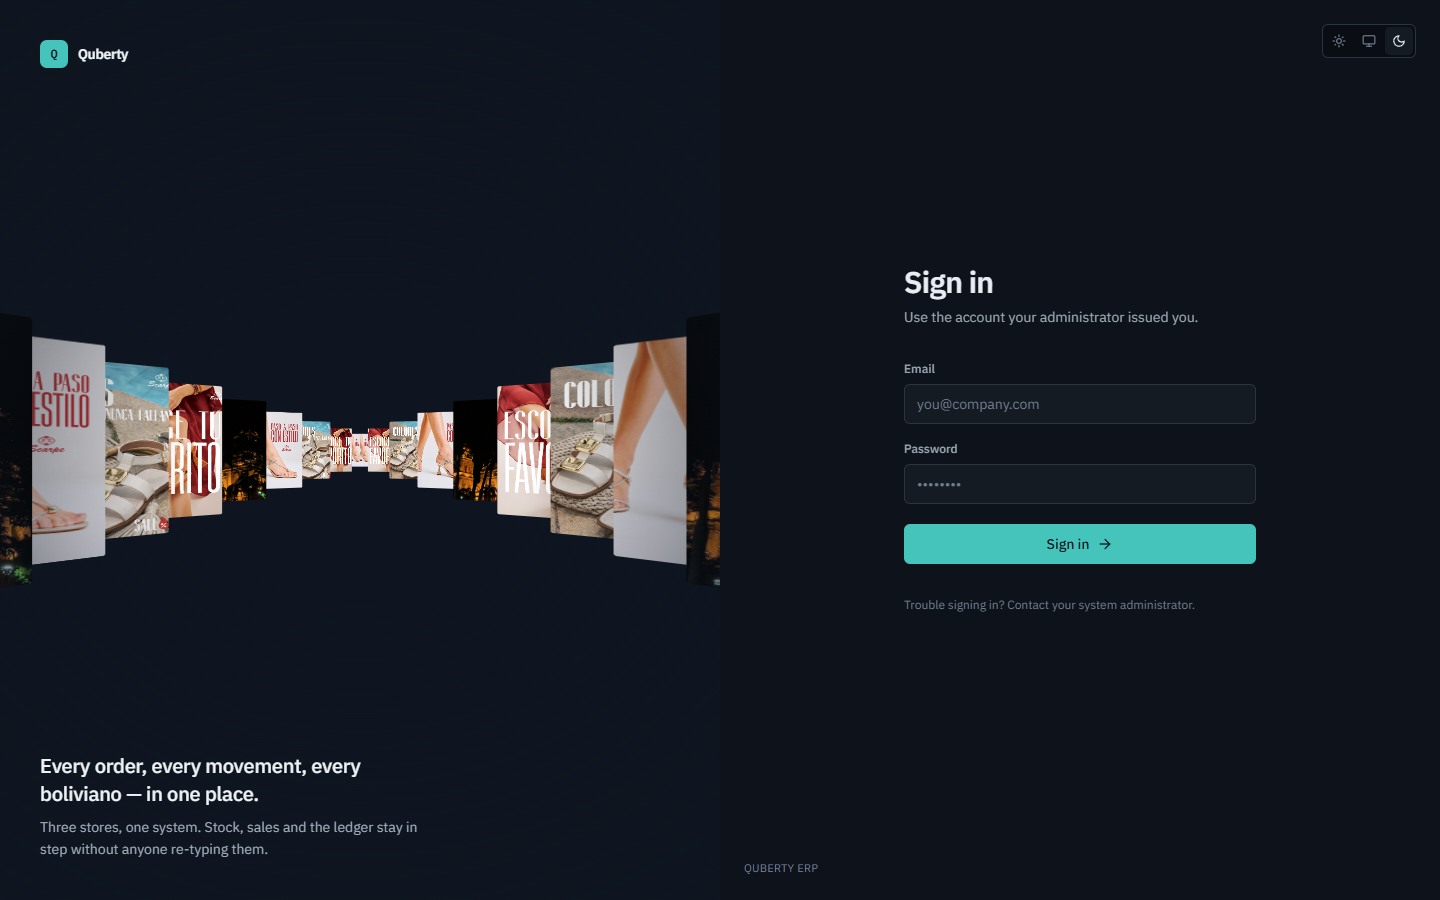
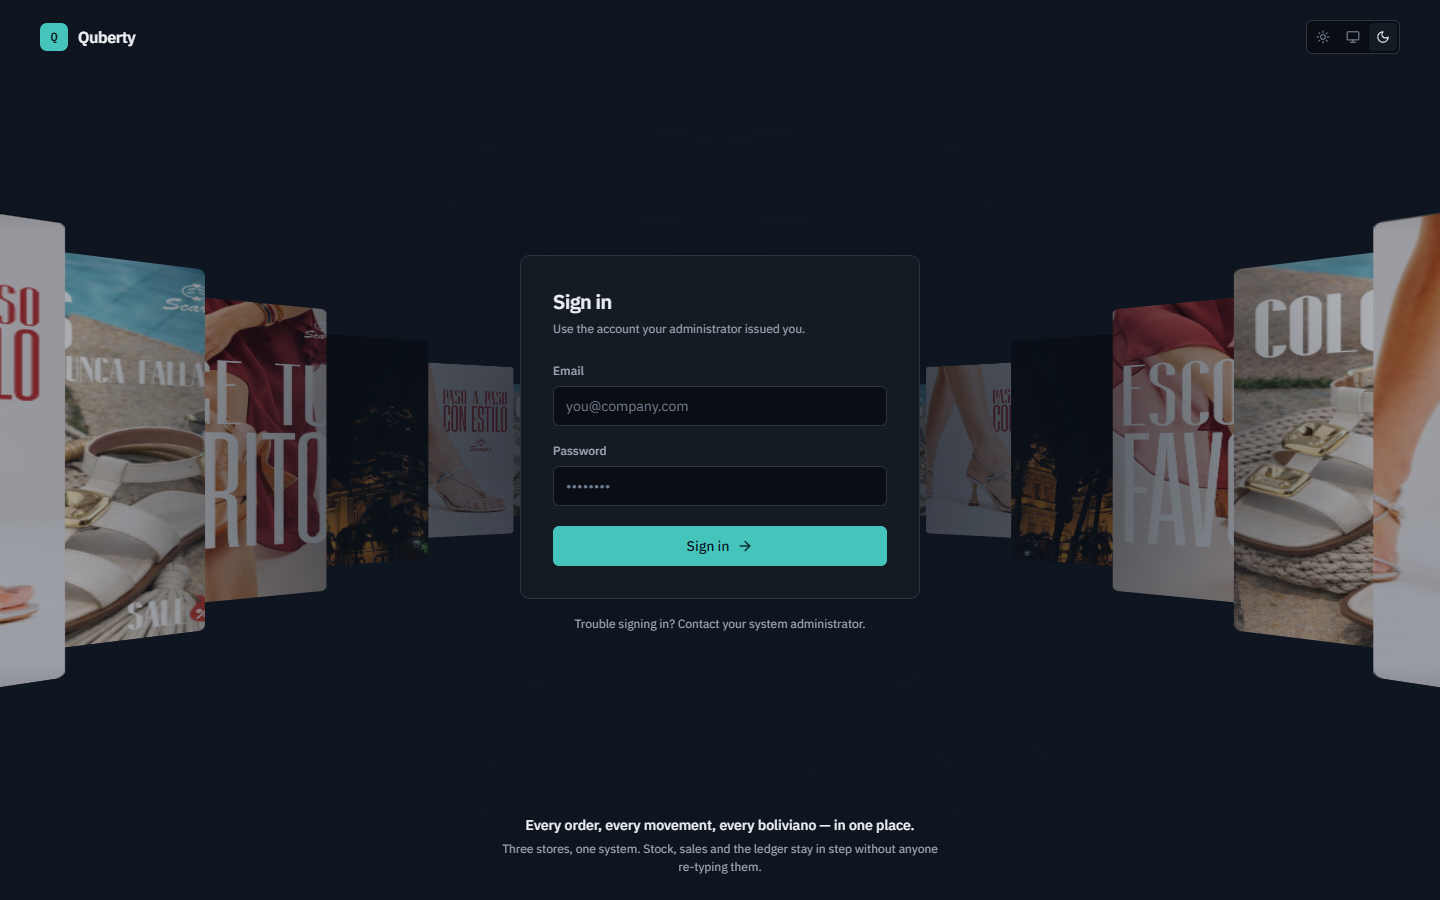
Rebuild sign-in with the corridor full-bleed instead of in a half panel
The first attempt put ImageStreamHero in a half-width column beside the form.
That fought the component: its geometry is measured in `cqw`, a share of
container WIDTH, so a tall half-width container collapsed the corridor into a
thin band, and the column beside it had nothing to hold. Scaling the path up
made the band bigger without making the composition better.

The corridor is the page now, matching the reference composition — full-bleed
behind everything, with the sign-in card floating over it.

- Two scrims, each with a job: a linear one darkens top and bottom so the
  wordmark and footer copy hold at every frame of the loop, and a radial one
  sits under the card so the form never competes with a photograph passing
  behind it.
- The card is a solid surface, not frosted glass. It carries a form, and form
  text over moving photography has to be readable at every frame rather than
  most of them.
- The dedicated brand panel is gone; `--panel` now tints the whole page ground,
  so the imagery still reads in both themes.

Same store photography as before — the pictures the old slideshow cross-faded,
given depth and direction instead.

diff --git a/frontend/src/components/ui/login-form.tsx b/frontend/src/components/ui/login-form.tsx
@@ -9,15 +9,18 @@ import { ThemeToggle } from '@/components/ui/ThemeToggle';
 /**
  * Sign-in.
  *
- * The old screen was a half-and-half split with a cross-fading slideshow — the
- * layout every template ships with. This keeps the two halves, because a form
- * needs a quiet column, but replaces the slideshow with a corridor: the store's
- * own photography running toward the viewer on two rails. It is the same
- * pictures, given depth and direction instead of a fade.
+ * The corridor is the PAGE, not a decoration in one column. The first attempt
+ * put it in a half-width panel beside the form, which fought the component on
+ * two counts: its geometry is measured in `cqw`, so a tall half-width container
+ * shrank the whole corridor into a thin band, and the leftover column had
+ * nothing in it. The reference composition runs the corridor full-bleed and
+ * floats content over it, which is what this does.
  *
- * The corridor is decorative and `aria-hidden`; it pauses under
- * `prefers-reduced-motion` rather than stopping dead, so it freezes as a
- * composed still.
+ * The images are the store's own — the same photographs the old slideshow
+ * cycled through, now given depth and direction instead of a cross-fade.
+ *
+ * The corridor is decorative and `aria-hidden`; it pauses rather than stops
+ * under `prefers-reduced-motion`, so it freezes as a composed still.
  */
 
 const STORE_IMAGERY = [
@@ -43,146 +46,131 @@ export default function LoginForm({ onSubmit, error, loading }: LoginFormProps) 
   };
 
   return (
-    <div className="flex min-h-screen w-full bg-bg">
-      {/* ── Left: the corridor ──────────────────────────────────────────── */}
-      <div className="relative hidden w-1/2 shrink-0 overflow-hidden bg-panel lg:block">
-        {/* The corridor is sized in `cqw`, a share of container WIDTH, but this
-            panel is a tall half-screen. The stock geometry therefore renders as
-            a thin band floating in dead space. These values are scaled up so the
-            ribbon fills a portrait panel and reads as depth rather than a strip. */}
-        <ImageStreamHero
-          images={STORE_IMAGERY}
-          cards={11}
-          speed={26}
-          axis={50}
-          path={{
-            perspective: 34,
-            cardWidth: 26,
-            cardHeight: 34,
-            birthHeight: 3.4,
-            exitHeight: 78,
-            railExit: 54,
-            railBirth: -14,
-          }}
-          className="absolute inset-0 h-full w-full"
-        />
+    <ImageStreamHero
+      images={STORE_IMAGERY}
+      cards={10}
+      speed={24}
+      axis={50}
+      className="min-h-screen w-full bg-panel"
+    >
+      {/* Two scrims doing different jobs. The linear one darkens top and bottom
+          so the wordmark and footer hold at any frame of the loop; the radial
+          one sits under the card so the form never competes with a photograph
+          passing behind it. */}
+      <div
+        aria-hidden
+        className="pointer-events-none absolute inset-0"
+        style={{
+          background:
+            'linear-gradient(hsl(var(--panel) / 0.92) 0%, hsl(var(--panel) / 0.35) 26%, hsl(var(--panel) / 0.35) 74%, hsl(var(--panel) / 0.94) 100%)',
+        }}
+      />
+      <div
+        aria-hidden
+        className="pointer-events-none absolute inset-0"
+        style={{
+          background:
+            'radial-gradient(46% 52% at 50% 52%, hsl(var(--panel) / 0.86) 0%, hsl(var(--panel) / 0.55) 55%, transparent 100%)',
+        }}
+      />
 
-        {/* Grades the corridor into the panel edge so it does not end on a
-            hard line, and keeps the wordmark legible over moving images. */}
-        <div
-          aria-hidden
-          className="pointer-events-none absolute inset-0"
-          style={{
-            background:
-              'radial-gradient(110% 75% at 50% 50%, transparent 22%, hsl(var(--panel) / 0.72) 62%, hsl(var(--panel)) 88%)',
-          }}
-        />
-
-        <div className="relative z-10 flex h-full flex-col justify-between p-10">
-          <Wordmark onPanel />
-          <div className="max-w-sm">
-            <p className="text-title font-medium text-panel-fg">
-              Every order, every movement, every boliviano — in one place.
-            </p>
-            <p className="mt-2 text-body text-panel-muted">
-              Three stores, one system. Stock, sales and the ledger stay in step
-              without anyone re-typing them.
-            </p>
-          </div>
-        </div>
-      </div>
-
-      {/* ── Right: the form ─────────────────────────────────────────────── */}
-      <div className="flex w-full flex-col lg:w-1/2">
-        <header className="flex items-center justify-between p-6">
-          <div className="lg:hidden">
-            <Wordmark />
-          </div>
-          <div className="ml-auto">
-            <ThemeToggle />
-          </div>
+      <div className="relative z-10 flex min-h-screen flex-col">
+        <header className="flex items-center justify-between px-6 py-5 sm:px-10">
+          <Wordmark />
+          <ThemeToggle />
         </header>
 
-        <main className="flex flex-1 items-center justify-center px-6 pb-16">
-          <div className="w-full max-w-[22rem] animate-fade-up">
-            <h1 className="text-display font-semibold text-fg">Sign in</h1>
-            <p className="mt-1.5 text-body text-fg-muted">
-              Use the account your administrator issued you.
-            </p>
+        <main className="flex flex-1 items-center justify-center px-5 py-8">
+          <div className="w-full max-w-[25rem] animate-fade-up">
+            {/* A solid surface rather than frosted glass: the card carries a
+                form, and text over a moving photograph has to be readable at
+                every frame, not most of them. */}
+            <div className="rounded-surface border border-border bg-surface p-7 shadow-pop sm:p-8">
+              <h1 className="text-title font-semibold tracking-tight text-fg">Sign in</h1>
+              <p className="mt-1 text-caption text-fg-muted">
+                Use the account your administrator issued you.
+              </p>
 
-            <form onSubmit={handleSubmit} className="mt-8 flex flex-col gap-4">
-              <Field
-                id="email"
-                label="Email"
-                type="email"
-                value={email}
-                onChange={setEmail}
-                autoComplete="username"
-                placeholder="you@company.com"
-                required
-              />
-              <Field
-                id="password"
-                label="Password"
-                type="password"
-                value={password}
-                onChange={setPassword}
-                autoComplete="current-password"
-                placeholder="••••••••"
-                required
-              />
+              <form onSubmit={handleSubmit} className="mt-6 flex flex-col gap-4">
+                <Field
+                  id="email"
+                  label="Email"
+                  type="email"
+                  value={email}
+                  onChange={setEmail}
+                  autoComplete="username"
+                  placeholder="you@company.com"
+                  required
+                />
+                <Field
+                  id="password"
+                  label="Password"
+                  type="password"
+                  value={password}
+                  onChange={setPassword}
+                  autoComplete="current-password"
+                  placeholder="••••••••"
+                  required
+                />
 
-              {error ? (
-                <p
-                  role="alert"
-                  className="flex items-start gap-2 rounded-control bg-danger-soft px-3 py-2 text-caption text-danger"
+                {error ? (
+                  <p
+                    role="alert"
+                    className="flex items-start gap-2 rounded-control bg-danger-soft px-3 py-2 text-caption text-danger"
+                  >
+                    <AlertCircle className="mt-px h-3.5 w-3.5 shrink-0" aria-hidden />
+                    <span>{error}</span>
+                  </p>
+                ) : null}
+
+                <button
+                  type="submit"
+                  disabled={loading}
+                  className={cn(
+                    'mt-1 inline-flex h-10 cursor-pointer items-center justify-center gap-2 rounded-control',
+                    'bg-accent px-4 text-body font-medium text-accent-fg',
+                    'transition-colors duration-quick hover:bg-accent-hover',
+                    'disabled:cursor-not-allowed disabled:opacity-60',
+                  )}
                 >
-                  <AlertCircle className="mt-px h-3.5 w-3.5 shrink-0" aria-hidden />
-                  <span>{error}</span>
-                </p>
-              ) : null}
+                  {loading ? (
+                    <>
+                      <Loader2 className="h-4 w-4 animate-spin" aria-hidden />
+                      Signing in
+                    </>
+                  ) : (
+                    <>
+                      Sign in
+                      <ArrowRight className="h-4 w-4" aria-hidden />
+                    </>
+                  )}
+                </button>
+              </form>
+            </div>
 
-              <button
-                type="submit"
-                disabled={loading}
-                className={cn(
-                  'mt-1 inline-flex h-10 cursor-pointer items-center justify-center gap-2 rounded-control',
-                  'bg-accent px-4 text-body font-medium text-accent-fg',
-                  'transition-colors duration-quick hover:bg-accent-hover',
-                  'disabled:cursor-not-allowed disabled:opacity-60',
-                )}
-              >
-                {loading ? (
-                  <>
-                    <Loader2 className="h-4 w-4 animate-spin" aria-hidden />
-                    Signing in
-                  </>
-                ) : (
-                  <>
-                    Sign in
-                    <ArrowRight className="h-4 w-4" aria-hidden />
-                  </>
-                )}
-              </button>
-            </form>
-
-            <p className="mt-8 text-caption text-fg-subtle">
+            <p className="mt-4 text-center text-caption text-panel-muted">
               Trouble signing in? Contact your system administrator.
             </p>
           </div>
         </main>
 
-        <footer className="px-6 pb-6 text-micro uppercase tracking-wide text-fg-subtle">
-          Quberty ERP
+        <footer className="px-6 pb-6 text-center sm:px-10">
+          <p className="text-body font-medium text-panel-fg">
+            Every order, every movement, every boliviano — in one place.
+          </p>
+          <p className="mx-auto mt-1 max-w-md text-caption text-panel-muted">
+            Three stores, one system. Stock, sales and the ledger stay in step
+            without anyone re-typing them.
+          </p>
         </footer>
       </div>
-    </div>
+    </ImageStreamHero>
   );
 }
 
 /* ── pieces ───────────────────────────────────────────────────────────── */
 
-function Wordmark({ onPanel = false }: { onPanel?: boolean }) {
+function Wordmark() {
   return (
     <div className="flex items-center gap-2.5">
       <div
@@ -191,7 +179,7 @@ function Wordmark({ onPanel = false }: { onPanel?: boolean }) {
       >
         <span className="font-mono text-caption font-semibold leading-none">Q</span>
       </div>
-      <span className={cn("text-lead font-semibold tracking-tight", onPanel ? "text-panel-fg" : "text-fg")}>Quberty</span>
+      <span className="text-lead font-semibold tracking-tight text-panel-fg">Quberty</span>
     </div>
   );
 }
@@ -224,7 +212,7 @@ function Field({ id, label, type, value, onChange, autoComplete, placeholder, re
         placeholder={placeholder}
         required={required}
         className={cn(
-          'h-10 w-full rounded-control border border-border bg-surface px-3',
+          'h-10 w-full rounded-control border border-border bg-surface-sunken px-3',
           'text-body text-fg placeholder:text-fg-subtle',
           'transition-colors duration-quick hover:border-border-strong',
           'focus:border-accent focus:outline-none focus-visible:outline-none',
